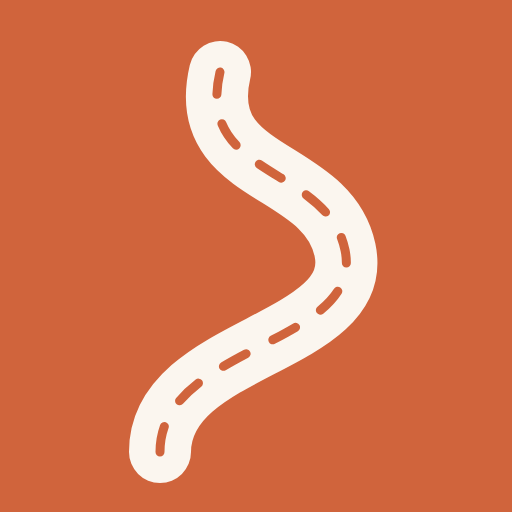
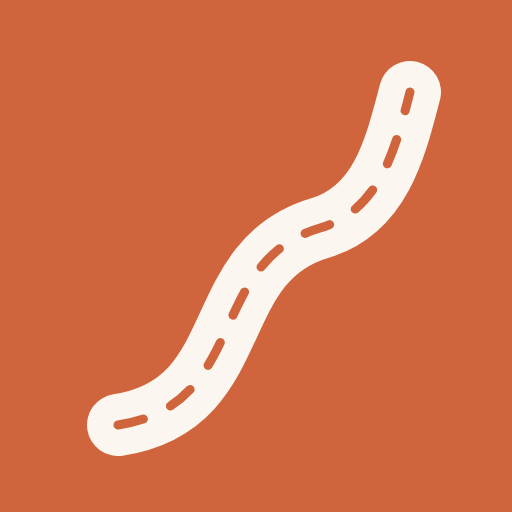
App-Symbol: flacherer Weg nach oben rechts (Variante B)
Claude-Session: https://claude.ai/code/session_01EnR4rnjpJYXov9S2qXgsMZ

diff --git a/sw.js b/sw.js
@@ -1,5 +1,5 @@
 // Offline-Betrieb: App-Dateien zwischenspeichern. Neue Versionen werden beim nächsten Online-Start geladen.
-const C="pfad-2",FILES=["./","index.html","manifest.webmanifest","icon-180.png","icon-192.png","icon-512.png"];
+const C="pfad-3",FILES=["./","index.html","manifest.webmanifest","icon-180.png","icon-192.png","icon-512.png"];
 self.addEventListener("install",e=>{e.waitUntil(caches.open(C).then(c=>c.addAll(FILES)));self.skipWaiting()});
 self.addEventListener("activate",e=>{e.waitUntil(caches.keys().then(ks=>Promise.all(ks.filter(k=>k!==C).map(k=>caches.delete(k)))));self.clients.claim()});
 self.addEventListener("fetch",e=>{if(e.request.method!=="GET")return;
